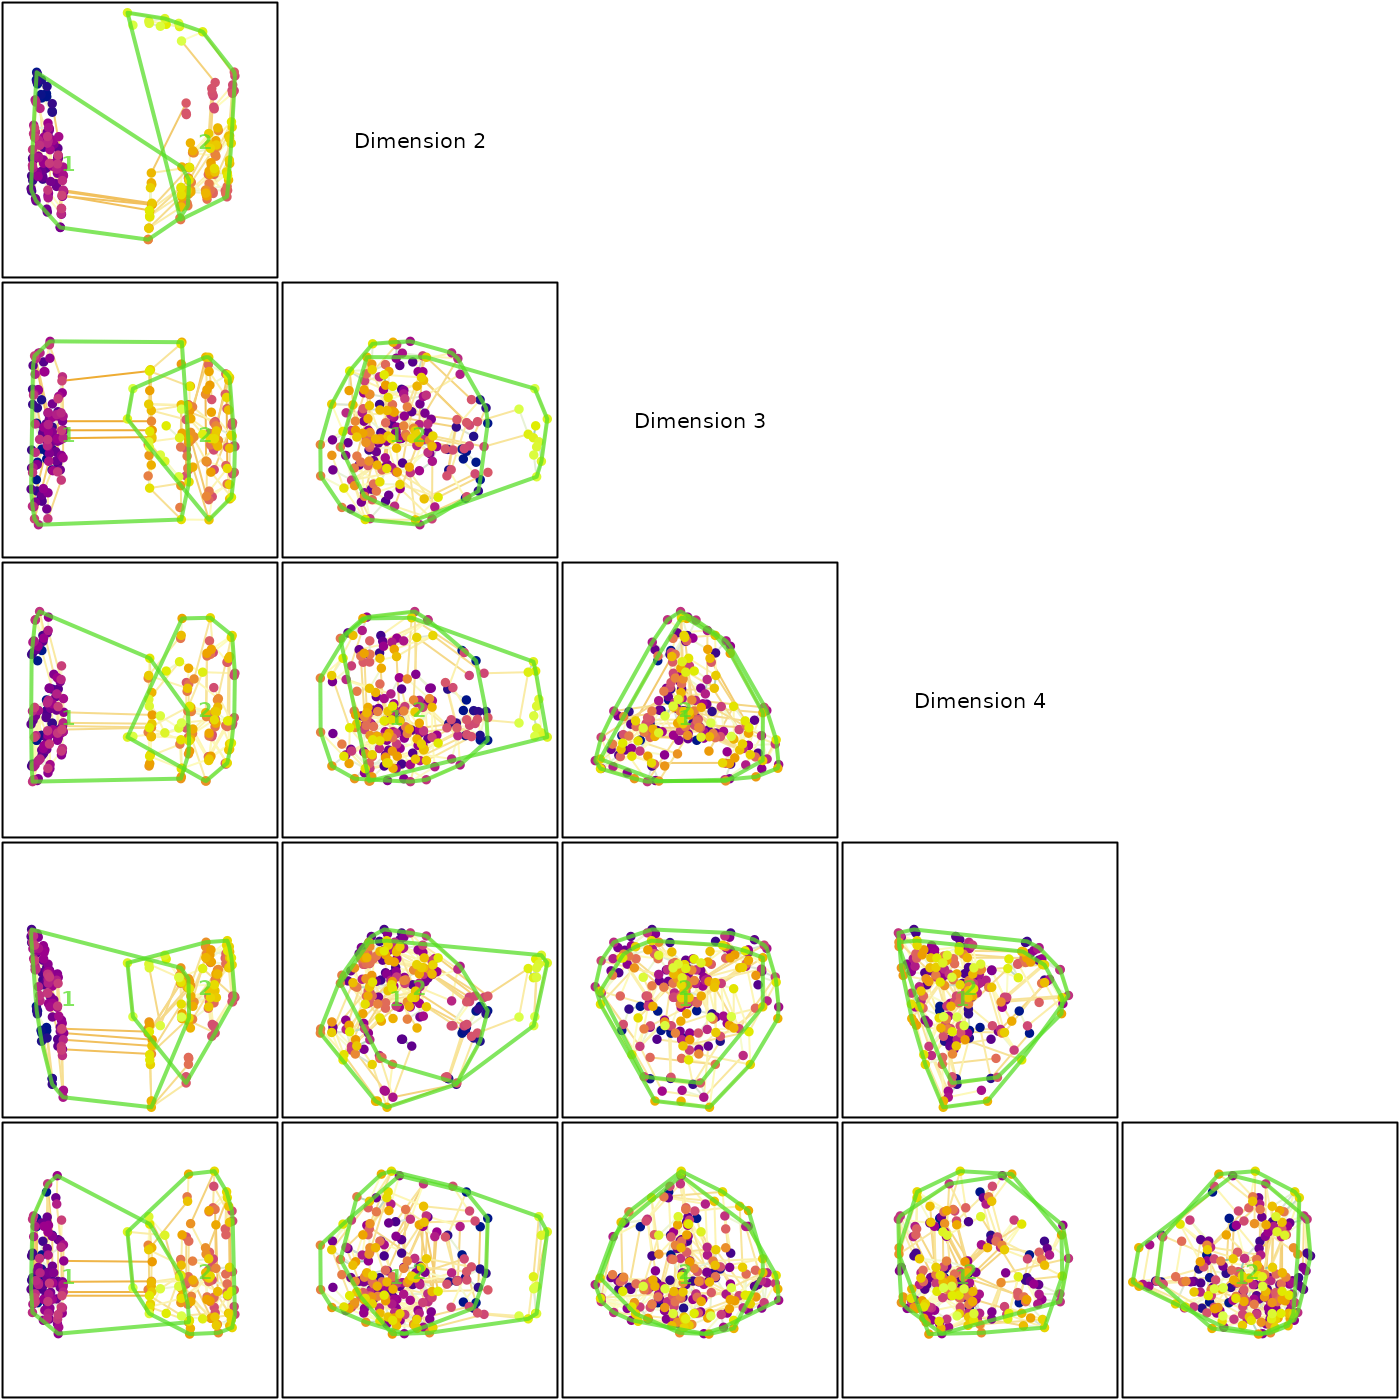
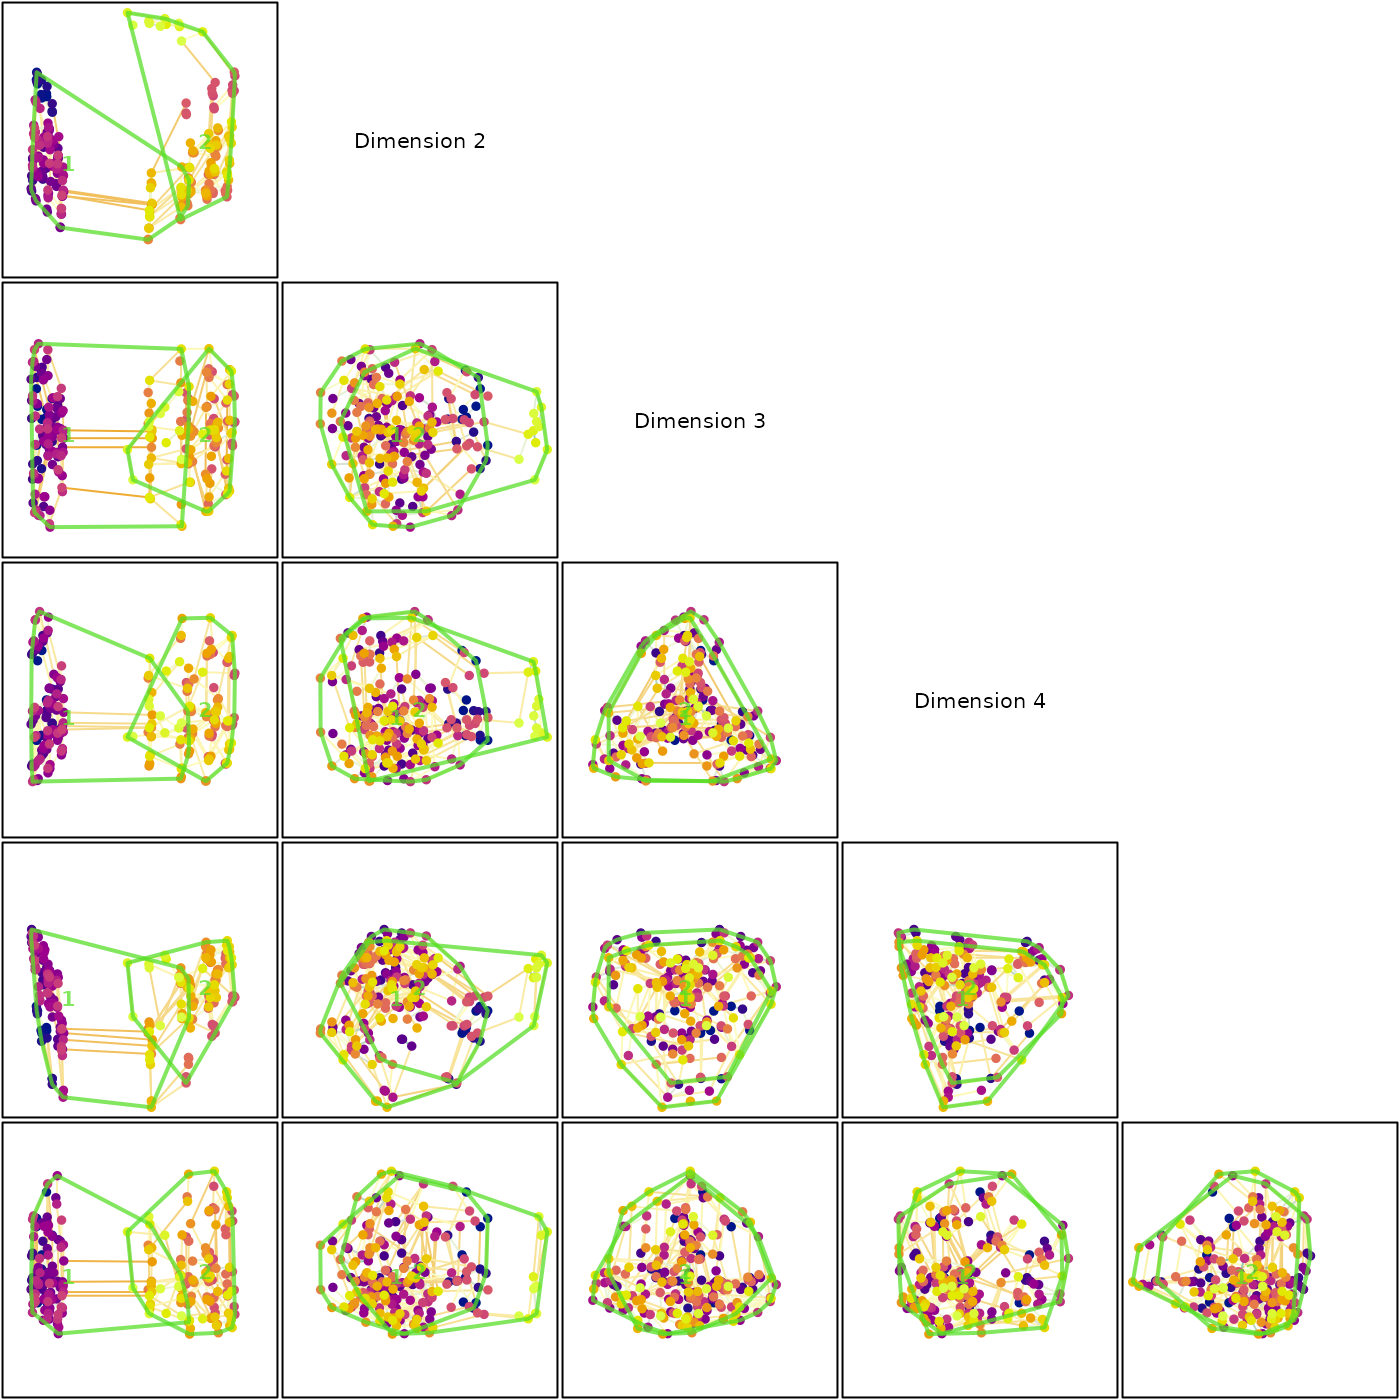
Deploying to gh-pages from @ ms609/TreeDist@3622579983b68b03c919ce1cb02f322cef990bd1 🚀

diff --git a/dev/index.html b/dev/index.html
@@ -11,8 +11,8 @@
 <script src="deps/bootstrap-5.3.1/bootstrap.bundle.min.js"></script><link href="deps/font-awesome-6.5.2/css/all.min.css" rel="stylesheet">
 <link href="deps/font-awesome-6.5.2/css/v4-shims.min.css" rel="stylesheet">
 <script src="deps/headroom-0.11.0/headroom.min.js"></script><script src="deps/headroom-0.11.0/jQuery.headroom.min.js"></script><script src="deps/bootstrap-toc-1.0.1/bootstrap-toc.min.js"></script><script src="deps/clipboard.js-2.0.11/clipboard.min.js"></script><script src="deps/search-1.0.0/autocomplete.jquery.min.js"></script><script src="deps/search-1.0.0/fuse.min.js"></script><script src="deps/search-1.0.0/mark.min.js"></script><!-- pkgdown --><script src="pkgdown.js"></script><meta property="og:title" content="Calculate and Map Distances Between Phylogenetic Trees">
-<meta name="description" content="Implements measures of tree similarity, including information-based generalized Robinson-Foulds distances (Phylogenetic Information Distance, Clustering Information Distance, Matching Split Information Distance; Smith 2020) &lt;doi:10.1093/bioinformatics/btaa614&gt;; Jaccard-Robinson-Foulds distances (Bocker et al. 2013) &lt;doi:10.1007/978-3-642-40453-5_13&gt;, including the Nye et al. (2006) metric &lt;doi:10.1093/bioinformatics/bti720&gt;; the Matching Split Distance (Bogdanowicz &amp; Giaro 2012) &lt;doi:10.1109/TCBB.2011.48&gt;; the Hierarchical Mutual Information (Perotti et al. 2015) &lt;doi:10.1103/PhysRevE.92.062825&gt;; Maximum Agreement Subtree distances; the Kendall-Colijn (2016) distance &lt;doi:10.1093/molbev/msw124&gt;, and the Nearest Neighbour Interchange (NNI) distance, approximated per Li et al. (1996) &lt;doi:10.1007/3-540-61332-3_168&gt;. Includes tools for visualizing mappings of tree space (Smith 2022) &lt;doi:10.1093/sysbio/syab100&gt;, for identifying islands of trees (Silva and Wilkinson 2021) &lt;doi:10.1093/sysbio/syab015&gt;, for calculating the median of sets of trees, and for computing the information content of trees and splits.">
-<meta property="og:description" content="Implements measures of tree similarity, including information-based generalized Robinson-Foulds distances (Phylogenetic Information Distance, Clustering Information Distance, Matching Split Information Distance; Smith 2020) &lt;doi:10.1093/bioinformatics/btaa614&gt;; Jaccard-Robinson-Foulds distances (Bocker et al. 2013) &lt;doi:10.1007/978-3-642-40453-5_13&gt;, including the Nye et al. (2006) metric &lt;doi:10.1093/bioinformatics/bti720&gt;; the Matching Split Distance (Bogdanowicz &amp; Giaro 2012) &lt;doi:10.1109/TCBB.2011.48&gt;; the Hierarchical Mutual Information (Perotti et al. 2015) &lt;doi:10.1103/PhysRevE.92.062825&gt;; Maximum Agreement Subtree distances; the Kendall-Colijn (2016) distance &lt;doi:10.1093/molbev/msw124&gt;, and the Nearest Neighbour Interchange (NNI) distance, approximated per Li et al. (1996) &lt;doi:10.1007/3-540-61332-3_168&gt;. Includes tools for visualizing mappings of tree space (Smith 2022) &lt;doi:10.1093/sysbio/syab100&gt;, for identifying islands of trees (Silva and Wilkinson 2021) &lt;doi:10.1093/sysbio/syab015&gt;, for calculating the median of sets of trees, and for computing the information content of trees and splits.">
+<meta name="description" content="Implements measures of tree similarity, including information-based generalized Robinson-Foulds distances (Phylogenetic Information Distance, Clustering Information Distance, Matching Split Information Distance; Smith 2020) &lt;doi:10.1093/bioinformatics/btaa614&gt;; Jaccard-Robinson-Foulds distances (Bocker et al. 2013) &lt;doi:10.1007/978-3-642-40453-5_13&gt;, including the Nye et al. (2006) metric &lt;doi:10.1093/bioinformatics/bti720&gt;; the Matching Split Distance (Bogdanowicz &amp; Giaro 2012) &lt;doi:10.1109/TCBB.2011.48&gt;; the Hierarchical Mutual Information (Perotti et al. 2015) &lt;doi:10.1103/PhysRevE.92.062825&gt;; Maximum Agreement Subtree distances; the Kendall-Colijn (2016) distance &lt;doi:10.1093/molbev/msw124&gt;, and the Nearest Neighbour Interchange (NNI) distance, approximated per Li et al. (1996) &lt;doi:10.1007/3-540-61332-3_168&gt;. Includes tools for visualizing mappings of tree space (Smith 2022) &lt;doi:10.1093/sysbio/syab100&gt;, for identifying islands of trees (Silva and Wilkinson 2021) &lt;doi:10.1093/sysbio/syab015&gt;, for calculating the median of sets of trees, including the transfer consensus (Takazawa et al. 2026) &lt;doi:10.64898/2026.03.16.712085&gt;, and for computing the information content of trees and splits.">
+<meta property="og:description" content="Implements measures of tree similarity, including information-based generalized Robinson-Foulds distances (Phylogenetic Information Distance, Clustering Information Distance, Matching Split Information Distance; Smith 2020) &lt;doi:10.1093/bioinformatics/btaa614&gt;; Jaccard-Robinson-Foulds distances (Bocker et al. 2013) &lt;doi:10.1007/978-3-642-40453-5_13&gt;, including the Nye et al. (2006) metric &lt;doi:10.1093/bioinformatics/bti720&gt;; the Matching Split Distance (Bogdanowicz &amp; Giaro 2012) &lt;doi:10.1109/TCBB.2011.48&gt;; the Hierarchical Mutual Information (Perotti et al. 2015) &lt;doi:10.1103/PhysRevE.92.062825&gt;; Maximum Agreement Subtree distances; the Kendall-Colijn (2016) distance &lt;doi:10.1093/molbev/msw124&gt;, and the Nearest Neighbour Interchange (NNI) distance, approximated per Li et al. (1996) &lt;doi:10.1007/3-540-61332-3_168&gt;. Includes tools for visualizing mappings of tree space (Smith 2022) &lt;doi:10.1093/sysbio/syab100&gt;, for identifying islands of trees (Silva and Wilkinson 2021) &lt;doi:10.1093/sysbio/syab015&gt;, for calculating the median of sets of trees, including the transfer consensus (Takazawa et al. 2026) &lt;doi:10.64898/2026.03.16.712085&gt;, and for computing the information content of trees and splits.">
 <meta name="robots" content="noindex">
 <!-- Global site tag (gtag.js) - Google Analytics --><script async src="https://www.googletagmanager.com/gtag/js?id=G-BTKEG66D3F"></script><script>
   window.dataLayer = window.dataLayer || [];